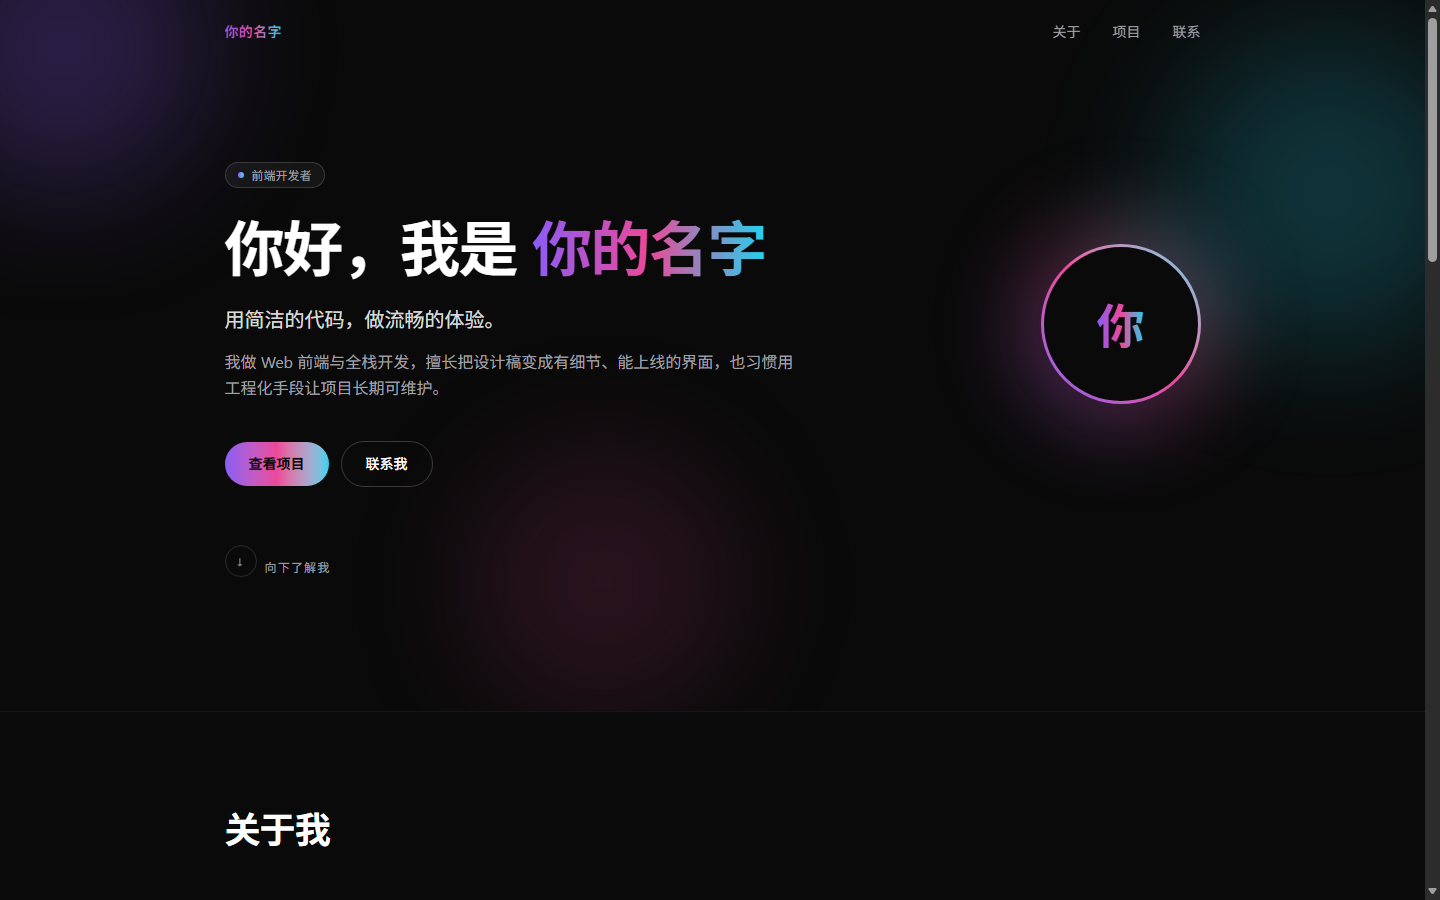
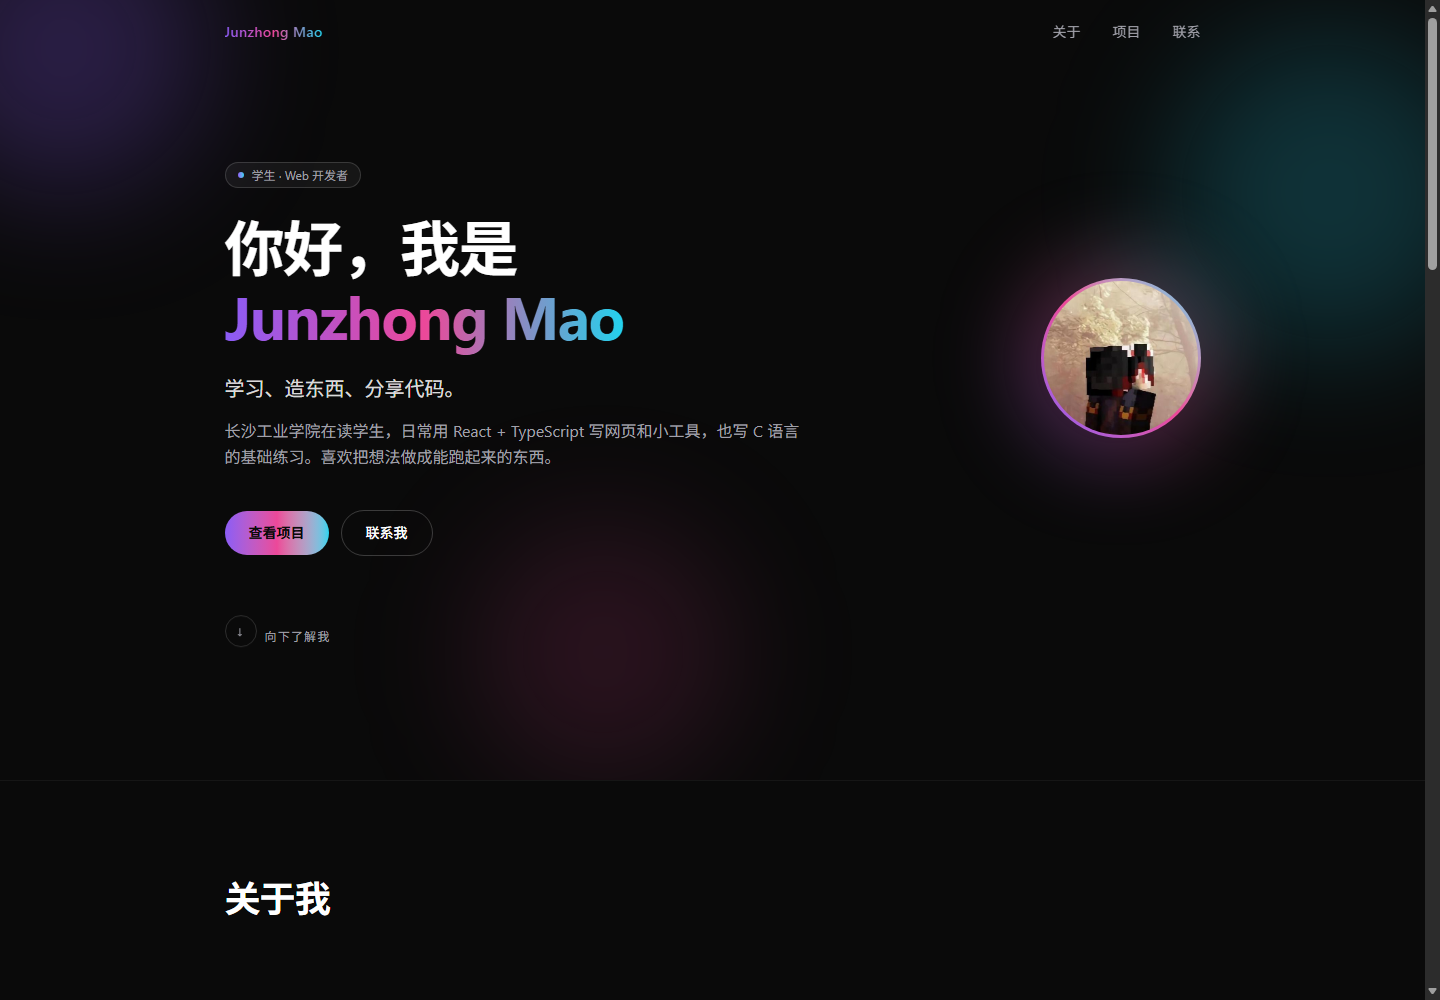
新增：我的个人信息

diff --git a/src/components/Contact.tsx b/src/components/Contact.tsx
@@ -2,10 +2,25 @@ import Reveal from "./Reveal";
 import { profile } from "../data/profile";
 
 /**
- * 联系方式：邮箱 + GitHub / 社交媒体链接（PRD 核心功能 4）。
- * 链接全部来自 src/data/profile.ts，均为可点击的真实地址。
+ * 联系方式（PRD 核心功能 4）。
+ * 有公开邮箱时用邮箱做主按钮；没有时退回第一个社交链接（GitHub），
+ * 剩下的链接列在下方，避免同一个地址重复出现两次。
  */
 export default function Contact() {
+  const primary = profile.email
+    ? { label: profile.email, href: `mailto:${profile.email}`, external: false }
+    : profile.socials.length > 0
+      ? {
+          label: `在 ${profile.socials[0].label} 上找我`,
+          href: profile.socials[0].href,
+          external: true,
+        }
+      : null;
+
+  const others = primary
+    ? profile.socials.filter((social) => social.href !== primary.href)
+    : profile.socials;
+
   return (
     <section id="contact" className="scroll-mt-20 border-t border-white/5">
       <div className="mx-auto max-w-5xl px-6 py-24">
@@ -14,30 +29,42 @@ export default function Contact() {
             一起做点<span className="text-gradient">有意思的事</span>
           </h2>
           <p className="mx-auto mt-4 max-w-xl leading-relaxed text-muted">
-            有项目想聊、想合作，或者只是想打个招呼，都欢迎发邮件给我。
+            有项目想聊、想合作，或者只是想打个招呼，都欢迎联系我。
           </p>
 
-          <a
-            href={`mailto:${profile.email}`}
-            className="mt-8 inline-block rounded-full bg-linear-to-r from-accent-from via-accent-via to-accent-to px-6 py-3 text-sm font-semibold text-night transition-opacity hover:opacity-90 focus-visible:outline-2 focus-visible:outline-offset-2 focus-visible:outline-accent-to"
-          >
-            {profile.email}
-          </a>
+          {primary && (
+            <a
+              href={primary.href}
+              {...(primary.external ? { target: "_blank", rel: "noreferrer" } : {})}
+              className="mt-8 inline-block rounded-full bg-linear-to-r from-accent-from via-accent-via to-accent-to px-6 py-3 text-sm font-semibold text-night transition-opacity hover:opacity-90 focus-visible:outline-2 focus-visible:outline-offset-2 focus-visible:outline-accent-to"
+            >
+              {primary.label}
+            </a>
+          )}
 
-          <ul className="mt-10 flex flex-wrap items-center justify-center gap-x-8 gap-y-3 text-sm">
-            {profile.socials.map((social) => (
-              <li key={social.href}>
-                <a
-                  href={social.href}
-                  target={social.href.startsWith("mailto:") ? undefined : "_blank"}
-                  rel="noreferrer"
-                  className="text-muted transition-colors hover:text-ink focus-visible:outline-2 focus-visible:outline-offset-4 focus-visible:outline-accent-to"
-                >
-                  {social.label}
-                </a>
-              </li>
-            ))}
-          </ul>
+          {others.length > 0 && (
+            <ul className="mt-10 flex flex-wrap items-center justify-center gap-x-8 gap-y-3 text-sm">
+              {others.map((social) => (
+                <li key={social.href}>
+                  <a
+                    href={social.href}
+                    target="_blank"
+                    rel="noreferrer"
+                    className="text-muted transition-colors hover:text-ink focus-visible:outline-2 focus-visible:outline-offset-4 focus-visible:outline-accent-to"
+                  >
+                    {social.label}
+                  </a>
+                </li>
+              ))}
+            </ul>
+          )}
+
+          {/* 邮箱未公开时说明一下，避免访客在页面上找不到邮件入口而疑惑 */}
+          {!profile.email && (
+            <p className="mt-8 text-xs text-muted">
+              邮箱暂未公开，GitHub 私信或开 Issue 都能找到我。
+            </p>
+          )}
         </Reveal>
       </div>
     </section>

diff --git a/src/data/projects.ts b/src/data/projects.ts
@@ -1,6 +1,7 @@
 /**
  * 项目数据（PRD：项目名称、截图、简短描述、技术栈、项目链接）
- * 数据集中放在 TypeScript 数组中，新增项目只需追加一条记录。
+ * 内容来自 GitHub 公开仓库（github.com/maocat823），说明文字按其 README 与仓库描述整理。
+ * 新增项目只需往数组里追加一条。
  */
 
 /** 单个项目 */
@@ -26,26 +27,51 @@ export const projects: Project[] = [
     id: "portfolio",
     name: "个人作品集",
     description:
-      "使用 React + TypeScript + Tailwind CSS 构建的深色主题作品集，包含滚动动画与响应式布局。",
+      "深色主题的单页作品集，React 19 + Tailwind CSS v4 实现渐变强调色、滚动进场动画与移动端适配——这页就是它本身。",
+    tech: ["React", "TypeScript", "Tailwind CSS", "Vite", "Framer Motion"],
+    image: "/projects/portfolio.png",
+    liveUrl: "https://maocat-portfolio.vercel.app",
+    repoUrl: "https://github.com/maocat823/maocat-portfolio",
+  },
+  {
+    id: "pomodoro",
+    name: "番茄钟",
+    description:
+      "简洁的番茄钟计时器，帮助你保持专注、高效工作；React 18 + TypeScript 管理计时与状态切换，界面用 Tailwind CSS 搭配 lucide 图标。",
     tech: ["React", "TypeScript", "Tailwind CSS", "Vite"],
-    liveUrl: "https://example.com",
-    repoUrl: "https://github.com/",
+    repoUrl: "https://github.com/maocat823/Pomodoro-Timer",
   },
   {
-    id: "dashboard",
-    name: "数据看板",
+    id: "todo-list",
+    name: "待办清单",
     description:
-      "面向内部团队的可视化看板，支持多维度筛选与图表联动，首屏加载时间控制在 1s 内。",
-    tech: ["React", "ECharts", "Vite", "REST API"],
-    liveUrl: "https://example.com",
-    repoUrl: "https://github.com/",
+      "原生 JavaScript 写的待办应用，支持优先级、编辑与筛选，数据保存在浏览器 localStorage 里，刷新不丢。",
+    tech: ["JavaScript", "HTML", "CSS", "Vite"],
+    repoUrl: "https://github.com/maocat823/Todo-List",
   },
   {
-    id: "cli-tool",
-    name: "脚手架工具",
+    id: "birthday-card",
+    name: "星空生日贺卡",
     description:
-      "命令行项目脚手架，一条命令生成规范化的前端工程结构，内置 ESLint、Prettier 与测试配置。",
-    tech: ["Node.js", "TypeScript", "Commander"],
-    repoUrl: "https://github.com/",
+      "一封藏在星空、粉笔字和 3D 粒子蛋糕里的生日祝福，基于 React 19 + TanStack Start，用 Radix UI 与 Tailwind CSS 搭界面。",
+    tech: ["React", "TanStack Start", "Radix UI", "Tailwind CSS"],
+    repoUrl: "https://github.com/maocat823/starry-2329-birthday-card",
+  },
+  {
+    id: "lemonfate",
+    name: "Lemonfate 服务器官网",
+    description:
+      "为 Minecraft 服务器 Lemonfate 做的宣传站点，纯 HTML / CSS / JavaScript 页面，部署在 Vercel 上。",
+    tech: ["HTML", "CSS", "JavaScript"],
+    liveUrl: "https://lemonfate-web.vercel.app",
+    repoUrl: "https://github.com/maocat823/Lemonfate-Web",
+  },
+  {
+    id: "learning",
+    name: "C 语言练习",
+    description:
+      "大一期间的 C 语言练习合集，从基础语法到小程序，按阶段整理，用来记录学习过程。",
+    tech: ["C"],
+    repoUrl: "https://github.com/maocat823/learning",
   },
 ];

diff --git a/src/data/profile.ts b/src/data/profile.ts
@@ -1,6 +1,7 @@
 /**
  * 站点个人信息（单一数据源）
- * Header / Hero / Contact / Footer 复用同一份数据，替换为真实信息时只需改这里。
+ * 数据来自 GitHub 公开资料（github.com/maocat823）：姓名、简介、学校、头像与社交链接。
+ * 换内容只需要改这里，Header / Hero / About / Contact / Footer 会一起更新。
  */
 
 /** 页内导航链接 */
@@ -15,6 +16,12 @@ export interface SocialLink {
   href: string;
 }
 
+/** 就读学校（可选） */
+export interface School {
+  name: string;
+  url: string;
+}
+
 /** 个人信息 */
 export interface Profile {
   name: string;
@@ -25,34 +32,38 @@ export interface Profile {
   intro: string;
   /** 关于我页面的详细介绍，按段落展示 */
   bio: string[];
+  /** 就读学校；留空则不显示 */
+  school?: School;
+  location: string;
+  /** 公开邮箱；留空时「联系我」区域会以第一个社交链接作为主按钮 */
+  email?: string;
   /** 头像图片地址；留空时用「渐变圆环 + 名字首字」占位 */
   avatarUrl?: string;
-  location: string;
-  email: string;
   navLinks: NavLink[];
   socials: SocialLink[];
 }
 
 export const profile: Profile = {
-  name: "你的名字",
-  role: "前端开发者",
-  tagline: "用简洁的代码，做流畅的体验。",
+  name: "Junzhong Mao",
+  role: "学生 · Web 开发者",
+  tagline: "学习、造东西、分享代码。",
   intro:
-    "我做 Web 前端与全栈开发，擅长把设计稿变成有细节、能上线的界面，也习惯用工程化手段让项目长期可维护。",
+    "长沙工业学院在读学生，日常用 React + TypeScript 写网页和小工具，也写 C 语言的基础练习。喜欢把想法做成能跑起来的东西。",
   bio: [
-    "你好，我是一名专注 Web 前端与全栈开发的工程师，喜欢把复杂的需求拆成清晰、可维护的代码。",
-    "平时关注界面交互、性能优化与工程化实践，也乐于把学习过程沉淀成项目与文章。",
+    "我是 Junzhong Mao，长沙工业学院的在读学生。平时主要写前端，用 React、TypeScript 和 Tailwind CSS 做页面，最近把作品集、番茄钟、待办清单这几个练手项目陆续做完了。",
+    "除了网页，我也在写 C 语言的基础练习，并关注 Minecraft 服务端生态——GitHub 上有一些相关的仓库和 fork，用来学习和配置。",
+    "我的 GitHub 简介是「Learning, building, and sharing code」，也确实是这样：边学边做，再把代码放到 GitHub 上。欢迎交流或者一起做点东西。",
   ],
-  location: "中国 · 上海",
-  email: "hello@example.com",
+  school: {
+    name: "长沙工业学院",
+    url: "https://www.ccsut.edu.cn/",
+  },
+  location: "中国",
+  avatarUrl: "/avatar.jpg",
   navLinks: [
     { label: "关于", href: "#about" },
     { label: "项目", href: "#projects" },
     { label: "联系", href: "#contact" },
   ],
-  socials: [
-    { label: "GitHub", href: "https://github.com/" },
-    { label: "X", href: "https://x.com/" },
-    { label: "邮箱", href: "mailto:hello@example.com" },
-  ],
+  socials: [{ label: "GitHub", href: "https://github.com/maocat823" }],
 };

diff --git a/src/data/skills.ts b/src/data/skills.ts
@@ -1,6 +1,6 @@
 /**
  * 技能数据（PRD：关于我页面展示技能列表）
- * 按分类存放，方便在界面上分组渲染。
+ * 只列 GitHub 仓库里实际用过的技术，避免写成一份「什么都会」的清单。
  */
 
 /** 单项技能 */
@@ -15,15 +15,13 @@ export const skills: Skill[] = [
   // 前端
   { name: "React", category: "前端" },
   { name: "TypeScript", category: "前端" },
+  { name: "JavaScript", category: "前端" },
   { name: "Tailwind CSS", category: "前端" },
-  { name: "Vite", category: "前端" },
   { name: "HTML / CSS", category: "前端" },
-  // 后端
-  { name: "Node.js", category: "后端" },
-  { name: "Express", category: "后端" },
-  { name: "REST API", category: "后端" },
-  // 工程化与协作
-  { name: "Git", category: "工程化" },
-  { name: "ESLint / Prettier", category: "工程化" },
-  { name: "Vitest", category: "工程化" },
+  // 工程化与部署
+  { name: "Vite", category: "工程化" },
+  { name: "Git / GitHub", category: "工程化" },
+  { name: "Vercel", category: "工程化" },
+  // 编程基础
+  { name: "C", category: "编程基础" },
 ];

diff --git a/src/components/About.tsx b/src/components/About.tsx
@@ -36,9 +36,25 @@ export default function About() {
               </p>
             ))}
 
-            <p className="text-sm text-muted">
-              所在城市：<span className="text-ink">{profile.location}</span>
-            </p>
+            {/* 所在地与就读学校：来自 profile.ts，学校为空时自动隐藏 */}
+            <div className="space-y-1 text-sm text-muted">
+              <p>
+                所在地区：<span className="text-ink">{profile.location}</span>
+              </p>
+              {profile.school && (
+                <p>
+                  就读于{" "}
+                  <a
+                    href={profile.school.url}
+                    target="_blank"
+                    rel="noreferrer"
+                    className="text-ink underline-offset-4 hover:underline focus-visible:outline-2 focus-visible:outline-offset-2 focus-visible:outline-accent-to"
+                  >
+                    {profile.school.name}
+                  </a>
+                </p>
+              )}
+            </div>
           </Reveal>
 
           <Reveal delay={0.1}>

diff --git a/index.html b/index.html
@@ -6,8 +6,18 @@
     <!-- 声明深色配色，让浏览器原生控件（滚动条、表单）跟随深色主题 -->
     <meta name="color-scheme" content="dark" />
     <meta name="theme-color" content="#0a0a0a" />
-    <meta name="description" content="个人作品集网站：项目展示、技能与联系方式。" />
-    <title>个人作品集</title>
+    <meta
+      name="description"
+      content="Junzhong Mao 的个人作品集：长沙工业学院在读学生，用 React、TypeScript 和 Tailwind CSS 做网页与小工具。"
+    />
+    <!-- 社交平台分享时的标题与摘要 -->
+    <meta property="og:type" content="website" />
+    <meta property="og:title" content="Junzhong Mao · 个人作品集" />
+    <meta
+      property="og:description"
+      content="项目、技能与联系方式——React + TypeScript + Tailwind CSS 构建的深色主题作品集。"
+    />
+    <title>Junzhong Mao · 个人作品集</title>
     <!-- 首屏背景色内联，避免 CSS 加载前出现白色闪烁 -->
     <style>
       html {

diff --git a/README.md b/README.md
@@ -1,6 +1,8 @@
-# 个人作品集网站
+# 个人作品集 · Junzhong Mao
 
-基于 React + TypeScript + Vite + Tailwind CSS 的深色主题个人作品集，单页结构，带滚动进入动画。
+长沙工业学院在读学生的个人作品集，单页结构，深色主题 + 渐变强调色 + 滚动进场动画。
+
+线上地址：<https://maocat-portfolio.vercel.app>
 
 ## 技术栈
 
@@ -15,19 +17,22 @@
 ## 常用命令
 
 ```bash
-npm install      # 安装依赖
-npm run dev      # 启动开发服务器（默认 http://localhost:5173）
-npm run build    # 类型检查 + 生产构建，产物在 dist/
-npm run preview  # 本地预览构建产物
+npm install       # 安装依赖
+npm run dev       # 启动开发服务器（默认 http://localhost:5173）
+npm run build     # 类型检查 + 生产构建，产物在 dist/
+npm run preview   # 本地预览构建产物
 npm run typecheck # 仅做类型检查
 ```
 
-> 如果 npm 缓存目录不在工作区内（例如在受限环境里报 `EPERM`），可以指定工作区内的缓存目录：
+> 如果 npm 缓存目录不在工作区内（受限环境下会报 `EPERM`），可以指定工作区内的缓存目录：
 > `npm install --cache ./.npm-cache`
 
 ## 目录结构
 
 ```
+public/
+  avatar.jpg              # 头像（来自 GitHub 头像）
+  projects/portfolio.png  # 项目卡片截图
 src/
   components/
     Header.tsx    # 固定顶部导航
@@ -38,7 +43,7 @@ src/
     Footer.tsx    # 页脚
     Reveal.tsx    # 可复用滚动动画容器
   data/
-    profile.ts    # 个人信息、导航、社交链接
+    profile.ts    # 个人信息、学校、导航、社交链接
     projects.ts   # 项目数据
     skills.ts     # 技能数据
   App.tsx         # 页面组装
@@ -55,15 +60,19 @@ src/
 - 渐变强调色：`from-accent-from` / `via-accent-via` / `to-accent-to`（紫 → 粉 → 青）
 - `.text-gradient` 自定义工具类：渐变文字
 
-全站禁止用裸色值写样式，新增颜色请先加到 `@theme`。
+新增颜色请先加到 `@theme`，不要在组件里写裸色值。
 
 ## 内容维护
 
-替换成自己的信息时只需要改 `src/data/` 下的三个文件：
+站内所有个人内容都来自 `src/data/` 下的三个文件，改这一处全站生效：
 
-- `profile.ts`：姓名、职位、`tagline` / `intro`（首屏文案）、`bio`（关于我段落）、`avatarUrl`（头像，留空则用渐变首字母占位）、邮箱、导航与社交链接
-- `projects.ts`：项目列表（`image` 填图片地址即自动懒加载，留空显示渐变占位）
-- `skills.ts`：技能与分类
+- `profile.ts`：姓名、职位、`tagline` / `intro`（首屏文案）、`bio`（关于我段落）、`school`（学校，留空则隐藏）、`avatarUrl`（头像，留空则用渐变首字母占位）、`location`、`email`（留空时「联系我」以第一个社交链接为主按钮）、导航与社交链接
+- `projects.ts`：项目列表；`image` 填图片地址即自动懒加载，留空显示渐变占位
+- `skills.ts`：技能与分类，按 `category` 自动分组
+
+## 数据来源
+
+站内文字、项目与技术栈根据 GitHub 公开资料（[@maocat823](https://github.com/maocat823)）整理：仓库描述与 README 用于项目介绍，仓库语言统计用于技能清单，头像下载自 GitHub 头像。
 
 ## 规范
 
